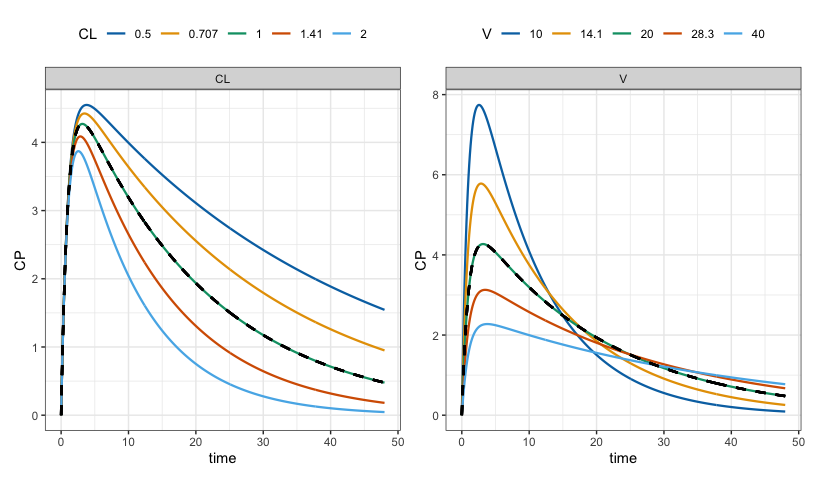
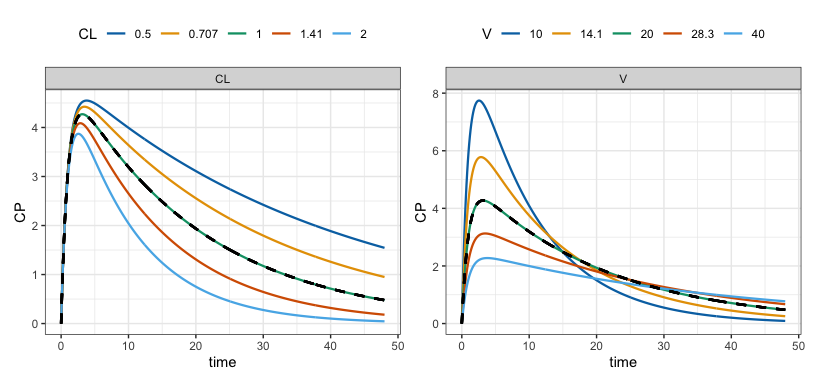
clean up splash page

diff --git a/README.md b/README.md
@@ -173,7 +173,7 @@ the output changes for a unit change in the parameter. The “sensitivity”
 is plotted over time.
 
 ``` r
-mod <- modlib("pk2", delta = 0.1, end = 72)
+mod <- modlib("pk2", delta = 0.1, end = 48)
 
 doses <- ev(amt = 100)
 
@@ -182,7 +182,7 @@ out <- lsa(mod, var = "CP", par = "CL,V2,Q,V3", events = doses)
 out
 ```
 
-    . # A tibble: 2,888 × 5
+    . # A tibble: 1,928 × 5
     .    time dv_name dv_value p_name     sens
     .   <dbl> <chr>      <dbl> <chr>     <dbl>
     . 1   0   CP         0     CL      0      
@@ -190,7 +190,7 @@ out
     . 3   0.1 CP         0.472 CL     -0.00254
     . 4   0.2 CP         0.893 CL     -0.00514
     . 5   0.3 CP         1.27  CL     -0.00782
-    . # ℹ 2,883 more rows
+    . # ℹ 1,923 more rows
 
 ``` r
 lsa_plot(out)
